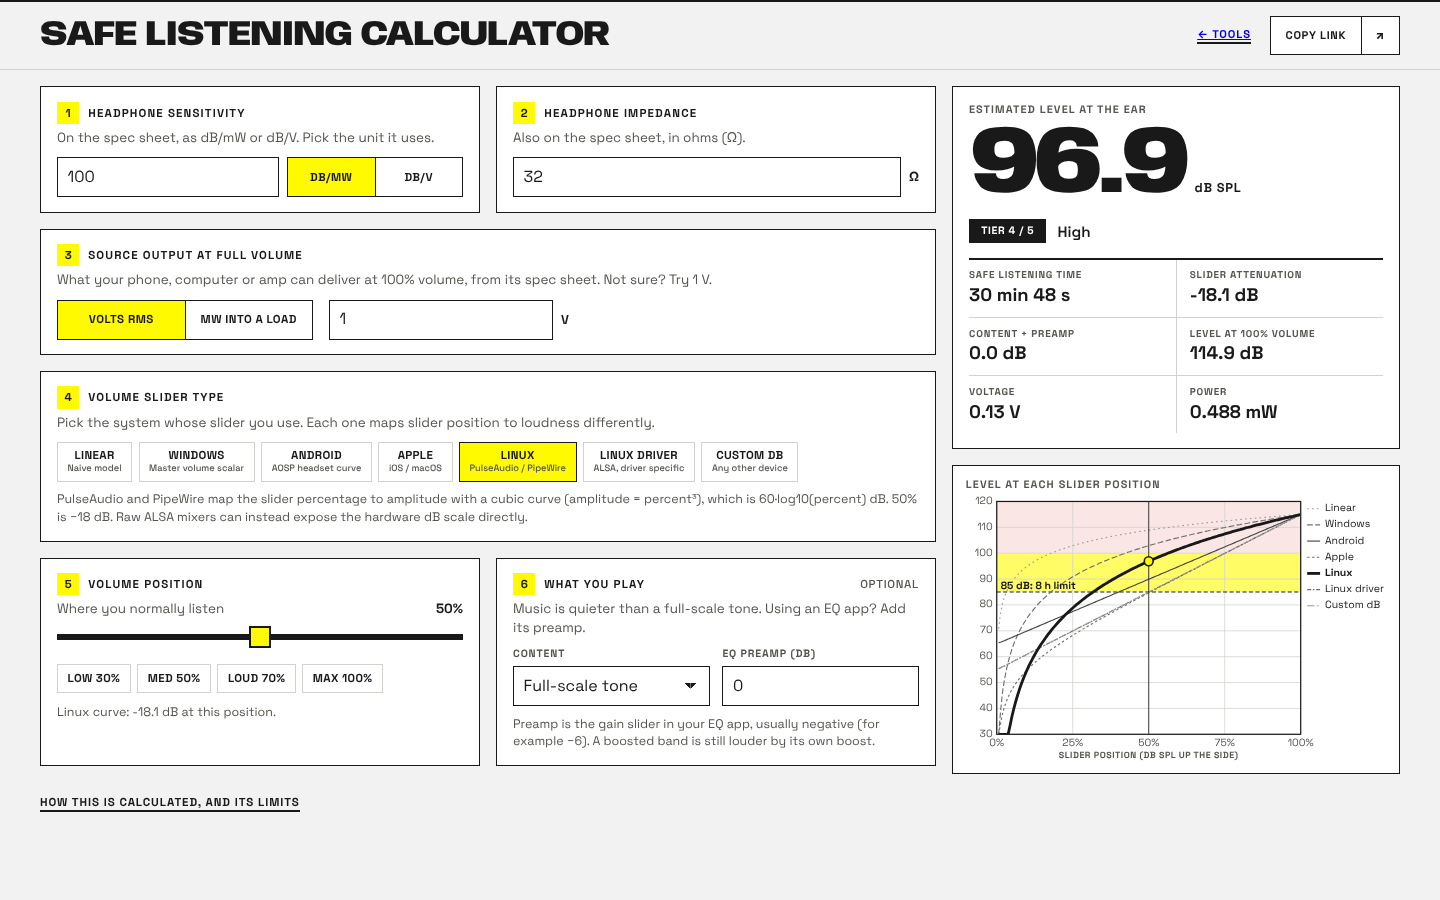
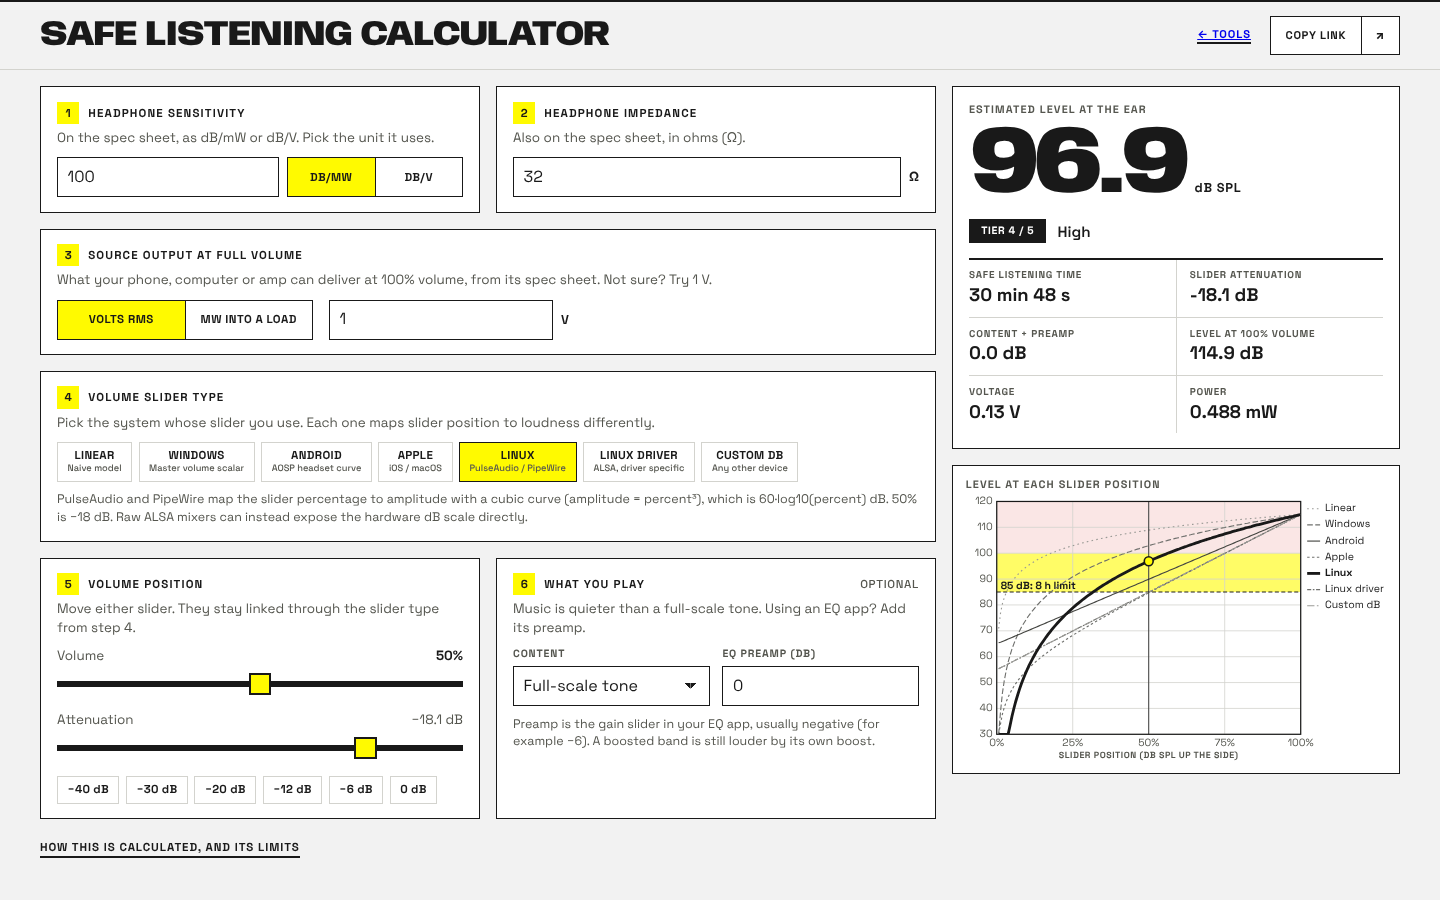
Sync Safe Listening Calculator: linked dB slider and dB presets

Changed region(s): [[0.0312, 0.6533, 0.3125, 0.9022], [0.0312, 0.9333, 0.2188, 0.9644]]

diff --git a/public/tools/safe-listening/curves.js b/public/tools/safe-listening/curves.js
@@ -27,21 +27,28 @@
     linear: {
       id: 'linear', label: 'Linear', where: 'Naive model', steps: null, approx: false,
       db: function (v) { return v <= 0 ? -Infinity : 20 * Math.log10(v); },
+      vol: function (db) { return Math.pow(10, db / 20); },
       note: 'Output voltage is simply slider × max voltage. This is what a naive calculator assumes. No mainstream operating system uses it, and it makes the slider look far louder at the bottom than it really is.'
     },
     linux: {
       id: 'linux', label: 'Linux', where: 'PulseAudio / PipeWire', steps: null, approx: false,
       db: function (v) { return v <= 0 ? -Infinity : 60 * Math.log10(v); },
+      vol: function (db) { return Math.pow(10, db / 60); },
       note: 'PulseAudio and PipeWire map the slider percentage to amplitude with a cubic curve (amplitude = percent³), which is 60·log10(percent) dB. 50% is −18 dB. Raw ALSA mixers can instead expose the hardware dB scale directly.'
     },
     windows: {
       id: 'windows', label: 'Windows', where: 'Master volume scalar', steps: null, approx: true,
       db: function (v) { return v <= 0 ? -Infinity : 40 * Math.log10(v); },
+      vol: function (db) { return Math.pow(10, db / 40); },
       note: 'Windows exposes an audio-taper scalar that is not linear in amplitude. Microsoft does not publish the exact curve and it varies with the driver, so this uses amplitude = scalar², which is 40·log10(scalar) dB. 50% is −12 dB. Treat it as an approximation.'
     },
     android: {
       id: 'android', label: 'Android', where: 'AOSP headset curve', steps: 15, approx: true,
       db: function (v) { return v <= 0 ? -Infinity : interpolate(ANDROID_HEADSET, v * 100); },
+      vol: function (db) {
+        var swapped = ANDROID_HEADSET.map(function (pt) { return [pt[1], pt[0]]; });
+        return interpolate(swapped, db) / 100;
+      },
       note: 'Android music volume has 15 steps, and the framework maps each step to a gain with a table of control points. This uses the AOSP default headset curve (1% → −49.5 dB, 33% → −33.5 dB, 66% → −17 dB, 100% → 0 dB). Manufacturers often change the table, so real devices differ.'
     },
     apple: {
@@ -50,6 +57,7 @@
         if (v <= 0) return -Infinity;
         return 20 * Math.log10((Math.pow(10, 3 * v) - 1) / 999);
       },
+      vol: function (db) { return Math.log10(999 * Math.pow(10, db / 20) + 1) / 3; },
       note: 'iOS and macOS use 16 volume steps with an exponential taper. Apple does not publish the gain table, so this is an approximation: amplitude = (10^(3·v) − 1) ÷ 999, giving about −30 dB at step 8 of 16.'
     },
     alsa: {
@@ -58,6 +66,7 @@
         var range = opts && opts.range > 0 ? opts.range : 60;
         return v <= 0 ? -Infinity : -range * (1 - v);
       },
+      vol: function (db, opts) { return 1 + db / (opts && opts.range > 0 ? opts.range : 60); },
       note: 'ALSA exposes each driver\'s own hardware dB scale, and the slider is linear in dB between the control\'s minimum and 0 dB. The range depends on the codec or DAC.'
     },
     generic: {
@@ -66,6 +75,7 @@
         var range = opts && opts.range > 0 ? opts.range : 60;
         return v <= 0 ? -Infinity : -range * (1 - v);
       },
+      vol: function (db, opts) { return 1 + db / (opts && opts.range > 0 ? opts.range : 60); },
       note: 'For anything else, such as a hardware knob or a player with its own volume scale: the slider is linear in decibels, 100% is 0 dB and 0% is the range below it. Enter the range that matches your device.'
     }
   };
@@ -74,6 +84,16 @@
 
   function attenuationDb(curveId, v, opts) {
     return CURVES[curveId].db(clamp(v, 0, 1), opts);
+  }
+
+  /*
+   * Inverse of attenuationDb: the slider position (0 to 1) that gives `db`.
+   * `floorDb` is the bottom of the dB slider; anything at or below it is mute.
+   */
+  function volumeFromDb(curveId, db, opts, floorDb) {
+    if (db >= 0) return 1;
+    if (floorDb !== undefined && db <= floorDb) return 0;
+    return clamp(CURVES[curveId].vol(db, opts), 0, 1);
   }
 
   /* Convert a sensitivity figure to dB SPL per mW. */
@@ -113,7 +133,7 @@
 
   var api = {
     CURVES: CURVES, ORDER: ORDER, ANDROID_HEADSET: ANDROID_HEADSET,
-    attenuationDb: attenuationDb, sensitivityPerMw: sensitivityPerMw,
+    attenuationDb: attenuationDb, volumeFromDb: volumeFromDb, sensitivityPerMw: sensitivityPerMw,
     compute: compute, safeSeconds: safeSeconds, tier: tier, clamp: clamp
   };
 

diff --git a/public/tools/safe-listening/app.js b/public/tools/safe-listening/app.js
@@ -74,6 +74,16 @@
 
   function currentCurve() { return SA.CURVES[state.curve]; }
   function sliderMax() { return currentCurve().steps || 100; }
+  /* Bottom of the dB slider. At or below it the volume is muted. */
+  function dbFloor() { return currentCurve().hasRange ? -state.range : -80; }
+  function fmtDb(db) { return (db < 0 ? '−' : '') + Math.abs(db).toFixed(1) + ' dB'; }
+
+  /* Set the volume from an attenuation, snapping to the device's steps if it has them. */
+  function setPosFromDb(db) {
+    var v = SA.volumeFromDb(state.curve, db, { range: state.range }, dbFloor());
+    var steps = currentCurve().steps;
+    state.pos = steps ? Math.round(v * steps) / steps : v;
+  }
 
   function calc(pos, curve) {
     return SA.compute({
@@ -182,6 +192,10 @@
     var slider = $('slider');
     slider.max = max;
     slider.value = Math.round(state.pos * max);
+    var dbSlider = $('db-slider');
+    dbSlider.min = dbFloor();
+    dbSlider.value = isFinite(r.attenuation) ? Math.max(r.attenuation, dbFloor()) : dbFloor();
+    $('db-out').textContent = isFinite(r.attenuation) ? fmtDb(r.attenuation) : 'Muted';
     $('slider-out').textContent = Math.round(state.pos * 100) + '%' + (curve.steps ? ' (step ' + Math.round(state.pos * max) + ' of ' + max + ')' : '');
 
     $('range-field').hidden = !curve.hasRange;
@@ -211,7 +225,6 @@
     $('spl-max').textContent = isFinite(full) ? full.toFixed(1) + ' dB' : '—';
     $('volts').textContent = r.volts >= 0.1 ? r.volts.toFixed(2) + ' V' : (r.volts * 1000).toFixed(1) + ' mV';
     $('power').textContent = r.powerMw >= 1 ? r.powerMw.toFixed(1) + ' mW' : r.powerMw.toFixed(3) + ' mW';
-    $('pos-note').textContent = curve.label + ' curve: ' + (isFinite(r.attenuation) ? r.attenuation.toFixed(1) + ' dB' : 'muted') + ' at this position.';
     $('curve-note').textContent = curve.note + (curve.approx ? ' (Approximation.)' : '');
 
     drawChart(calc(1).spl);
@@ -235,6 +248,7 @@
   bindNumber('preamp', 'preamp', -30, 20);
 
   $('content').addEventListener('change', function (e) { state.offset = parseFloat(e.target.value); render(); });
+  $('db-slider').addEventListener('input', function (e) { setPosFromDb(parseFloat(e.target.value)); render(); });
   $('slider').addEventListener('input', function (e) { state.pos = parseFloat(e.target.value) / sliderMax(); render(); });
 
   document.addEventListener('click', function (e) {
@@ -254,10 +268,8 @@
       render();
     } else if (b.dataset.srcmode && b.dataset.srcmode !== state.srcMode) {
       state.srcMode = b.dataset.srcmode; render();
-    } else if (b.dataset.pos) {
-      var c = currentCurve();
-      var p = parseFloat(b.dataset.pos);
-      state.pos = c.steps ? Math.round(p * c.steps) / c.steps : p;
+    } else if (b.dataset.db) {
+      setPosFromDb(parseFloat(b.dataset.db));
       render();
     }
   });

diff --git a/public/tools/safe-listening/index.html b/public/tools/safe-listening/index.html
@@ -79,15 +79,19 @@
 
       <section class="card">
         <h2><i>5</i> Volume position</h2>
-        <label for="slider" class="slider-head"><span>Where you normally listen</span><output id="slider-out" for="slider">50%</output></label>
+        <p class="help">Move either slider. They stay linked through the slider type from step 4.</p>
+        <label for="slider" class="slider-head"><span>Volume</span><output id="slider-out" for="slider">50%</output></label>
         <input id="slider" type="range" min="0" max="100" step="1" value="50">
-        <div class="quick" role="group" aria-label="Volume presets">
-          <button type="button" data-pos="0.3">Low 30%</button>
-          <button type="button" data-pos="0.5">Med 50%</button>
-          <button type="button" data-pos="0.7">Loud 70%</button>
-          <button type="button" data-pos="1">Max 100%</button>
+        <label for="db-slider" class="slider-head second"><span>Attenuation</span><output id="db-out" for="db-slider">−18.1 dB</output></label>
+        <input id="db-slider" type="range" min="-80" max="0" step="0.5" value="-18">
+        <div class="quick" role="group" aria-label="Attenuation presets">
+          <button type="button" data-db="-40">−40 dB</button>
+          <button type="button" data-db="-30">−30 dB</button>
+          <button type="button" data-db="-20">−20 dB</button>
+          <button type="button" data-db="-12">−12 dB</button>
+          <button type="button" data-db="-6">−6 dB</button>
+          <button type="button" data-db="0">0 dB</button>
         </div>
-        <p class="note pos-note" id="pos-note"></p>
       </section>
 
       <section class="card">

diff --git a/public/tools/safe-listening/style.css b/public/tools/safe-listening/style.css
@@ -181,8 +181,9 @@ input[type="range"]::-moz-range-thumb { width: 1.2rem; height: 1.2rem; border: 2
 .row.two { align-items: start; gap: .8rem; }
 .row.two > .field { flex: 1 1 0; min-width: 0; margin-bottom: 0; }
 .row.grow input { max-width: 14rem; }
-.pos-note { margin-top: .7rem; }
+.slider-head.second { margin-top: .5rem; }
 .row.two + .note { margin-top: .6rem; }
+.quick button { text-transform: none; letter-spacing: .02em; }
 
 .back { margin-right: .4rem; font-size: .7rem; font-weight: 700; letter-spacing: .08em; text-transform: uppercase; border-bottom: 2px solid var(--ink); }
 .back:hover { background: var(--signal); }
